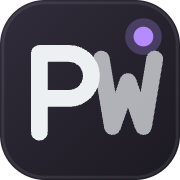
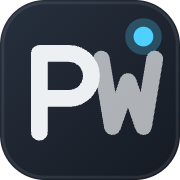
feat: ice-blue default accent, stronger hover states, experience tiles without corner glow

Changed region(s): [[0.6944, 0.0833, 0.9167, 0.3056]]

diff --git a/src/styles.scss b/src/styles.scss
@@ -85,21 +85,30 @@ img { max-width: 100%; display: block; }
   padding: 16px 28px; border-radius: var(--r-pill);
   background: var(--convex); box-shadow: var(--raise);
   font-weight: 600; font-size: 16px; line-height: 1.2; text-decoration: none; color: var(--text);
-  transition: box-shadow 0.18s, transform 0.18s;
-  &:hover { box-shadow: var(--raise-hi); }
-  &:active, &.is-pressed { box-shadow: var(--sink); transform: translateY(1px); background: var(--well-bg); }
+  transition: box-shadow 0.18s, transform 0.18s, color 0.18s, filter 0.18s;
+  &:hover {
+    transform: translateY(-2px);
+    color: var(--accent);
+    box-shadow: var(--raise-hi), 0 0 0 2px color-mix(in srgb, var(--accent) 45%, transparent);
+  }
+  &:active, &.is-pressed { box-shadow: var(--sink); transform: translateY(1px); background: var(--well-bg); color: var(--text); }
   &:disabled { opacity: 0.5; cursor: not-allowed; box-shadow: var(--raise-sm); }
   svg { width: 20px; height: 20px; fill: none; stroke: currentColor; stroke-width: 2; stroke-linecap: round; stroke-linejoin: round; flex: 0 0 auto; }
 }
 .btn-primary {
   background: var(--accent); color: var(--on-accent);
   box-shadow: var(--raise), var(--accent-glow);
-  &:hover { box-shadow: var(--raise-hi), var(--accent-glow); }
+  &:hover {
+    color: var(--on-accent);
+    filter: brightness(1.1) saturate(1.1);
+    box-shadow: var(--raise-hi), 0 0 36px color-mix(in srgb, var(--accent) 60%, transparent), 0 0 0 2px color-mix(in srgb, var(--accent) 70%, transparent);
+  }
+  &:active { filter: none; }
   &:active { background: var(--accent); color: var(--on-accent); box-shadow: inset 5px 5px 10px rgba(0, 0, 0, 0.35), inset -4px -4px 8px rgba(255, 255, 255, 0.25); }
 }
 .btn-ghost {
   background: transparent; box-shadow: none; color: var(--muted); padding-inline: 12px;
-  &:hover { color: var(--text); background: var(--convex); box-shadow: var(--raise); }
+  &:hover { color: var(--accent); background: var(--convex); box-shadow: var(--raise-hi), 0 0 0 2px color-mix(in srgb, var(--accent) 45%, transparent); }
 }
 .btn-icon { width: 56px; height: 56px; padding: 0; border-radius: 50%; }
 
@@ -134,6 +143,8 @@ img { max-width: 100%; display: block; }
   display: inline-flex; align-items: center; gap: 8px;
   padding: 10px 16px; border-radius: var(--r-pill);
   background: var(--convex); box-shadow: var(--raise-sm); font-weight: 500; font-size: 14px;
+  transition: box-shadow 0.18s, color 0.18s, transform 0.18s;
+  &:hover { color: var(--accent); transform: translateY(-1px); box-shadow: var(--raise), 0 0 0 1.5px color-mix(in srgb, var(--accent) 45%, transparent); }
   &.is-on { box-shadow: var(--sink-soft); background: var(--well-bg); color: var(--accent); }
 }
 .tag { font-size: 13px; padding: 6px 12px; border-radius: 999px; background: var(--well-bg); box-shadow: var(--sink-soft); }

diff --git a/src/styles/_tokens.scss b/src/styles/_tokens.scss
@@ -6,20 +6,20 @@
 // large blur and no border. Glass is reserved for large surfaces (plates),
 // controls stay matt so it is obvious what can be pressed.
 //
-// Dark is the default. [data-theme="light"] swaps the tones, [data-hue]
+// Default accent is ice blue on a cool graphite base. Dark is the default. [data-theme="light"] swaps the tones, [data-hue]
 // overrides the accent with a user-chosen hue (the dial in the hero).
 
 :root {
-  --bg: #26232e;
-  --lo: #1b1921;
-  --hi: #312d3b;
-  --hi-soft: #292631;
-  --lo-soft: #23202a;
+  --bg: #1e2530;
+  --lo: #151a22;
+  --hi: #27303e;
+  --hi-soft: #202835;
+  --lo-soft: #1c2230;
   --text: #edf0f3;
   --muted: #9aa4b0;
-  --accent: #b48cff;
-  --on-accent: #1b0f33;
-  --accent-2: #2ee6a6;
+  --accent: #4fd1ff;
+  --on-accent: #06202c;
+  --accent-2: #ff8a5c;
   --err: #ff6b7a;
 
   // Glass surfaces (plates) and wells (sunken areas).
@@ -27,8 +27,8 @@
   --plate-edge: rgba(255, 255, 255, 0.1);
   --well-bg: rgba(0, 0, 0, 0.14);
   --rule: rgba(255, 255, 255, 0.07);
-  --light-1: rgba(180, 140, 255, 0.18);
-  --light-2: rgba(255, 120, 200, 0.1);
+  --light-1: rgba(79, 209, 255, 0.18);
+  --light-2: rgba(120, 90, 255, 0.12);
 
   // Shadows derived from the tones above.
   --raise: 10px 10px 28px var(--lo), -10px -10px 28px var(--hi);
@@ -49,24 +49,24 @@
 }
 
 :root[data-theme="light"] {
-  --bg: #e6e2f0;
-  --lo: #c1bccf;
+  --bg: #dfe6ef;
+  --lo: #bac2cc;
   --hi: #ffffff;
-  --hi-soft: #ede9f5;
-  --lo-soft: #dfdaea;
-  --text: #1e1b27;
-  --muted: #5e5970;
-  --accent: #7a4df5;
-  --on-accent: #f6f2ff;
-  --accent-2: #0a9a6c;
+  --hi-soft: #e7edf4;
+  --lo-soft: #d7dfe9;
+  --text: #1b2230;
+  --muted: #4e5970;
+  --accent: #0a6cab;
+  --on-accent: #f2faff;
+  --accent-2: #d9472c;
   --err: #c0283a;
 
   --plate-bg: linear-gradient(145deg, rgba(255, 255, 255, 0.62), rgba(255, 255, 255, 0.3));
   --plate-edge: #ffffff;
-  --well-bg: rgba(30, 27, 39, 0.05);
-  --rule: rgba(30, 27, 39, 0.1);
-  --light-1: rgba(140, 90, 255, 0.12);
-  --light-2: rgba(255, 120, 200, 0.08);
+  --well-bg: rgba(27, 34, 48, 0.05);
+  --rule: rgba(27, 34, 48, 0.1);
+  --light-1: rgba(10, 108, 171, 0.12);
+  --light-2: rgba(120, 90, 255, 0.08);
   --raise: 10px 10px 30px var(--lo), -10px -10px 30px var(--hi);
   --raise-hi: 14px 14px 36px var(--lo), -14px -14px 36px var(--hi);
 }

diff --git a/src/app/sections/experience/experience.component.scss b/src/app/sections/experience/experience.component.scss
@@ -36,18 +36,6 @@
     background: var(--brand);
     box-shadow: 0 0 10px var(--brand), 0 0 22px color-mix(in srgb, var(--brand) 60%, transparent);
   }
-  // Soft brand light in the top-right corner of the plate.
-  &::before {
-    content: "";
-    position: absolute;
-    top: -120px;
-    right: -120px;
-    width: 320px;
-    height: 320px;
-    border-radius: 50%;
-    background: radial-gradient(circle, color-mix(in srgb, var(--brand) 32%, transparent) 0%, transparent 65%);
-    pointer-events: none;
-  }
   > * {
     position: relative;
   }

diff --git a/src/app/app.component.ts b/src/app/app.component.ts
@@ -27,7 +27,7 @@ export class AppComponent {
       // For the people who open the dev tools.
       console.log(
         '%c PW ',
-        'background:#b48cff;color:#1b0f33;font-weight:800;padding:4px 8px;border-radius:6px',
+        'background:#4fd1ff;color:#06202c;font-weight:800;padding:4px 8px;border-radius:6px',
         'Angular 21 mit SSR, keine Tracker, Fonts selbst gehostet.\nFragen zum Code oder ein Projekt: contact@philipp-wendschuch.dev'
       );
     }

diff --git a/src/app/sections/hero/hero.component.ts b/src/app/sections/hero/hero.component.ts
@@ -15,8 +15,8 @@ import { isNightShift } from '../../shared/night-shift';
 import { ScrollService } from '../../shared/scroll.service';
 import { ThemeService } from '../../shared/theme.service';
 
-/** Default accent (violet) sits at this hue; the dial starts there. */
-const DEFAULT_HUE = 262;
+/** Default accent (ice blue) sits at this hue; the dial starts there. */
+const DEFAULT_HUE = 196;
 
 @Component({
   selector: 'app-hero',

diff --git a/src/index.html b/src/index.html
@@ -13,7 +13,7 @@
     />
     <base href="/" />
     <meta name="viewport" content="width=device-width, initial-scale=1" />
-    <meta name="theme-color" content="#26232e" />
+    <meta name="theme-color" content="#1e2530" />
     <!-- Set theme + accent hue before first paint to avoid a flash (FOUC).
          External (not inline) so it passes the strict CSP. -->
     <script src="theme-init.js"></script>

diff --git a/src/app/sections/hero/hero.component.scss b/src/app/sections/hero/hero.component.scss
@@ -122,7 +122,7 @@
   .ind {
     position: absolute;
     inset: 0;
-    transform: rotate(var(--angle, 262deg));
+    transform: rotate(var(--angle, 196deg));
     &::after {
       content: "";
       position: absolute;
